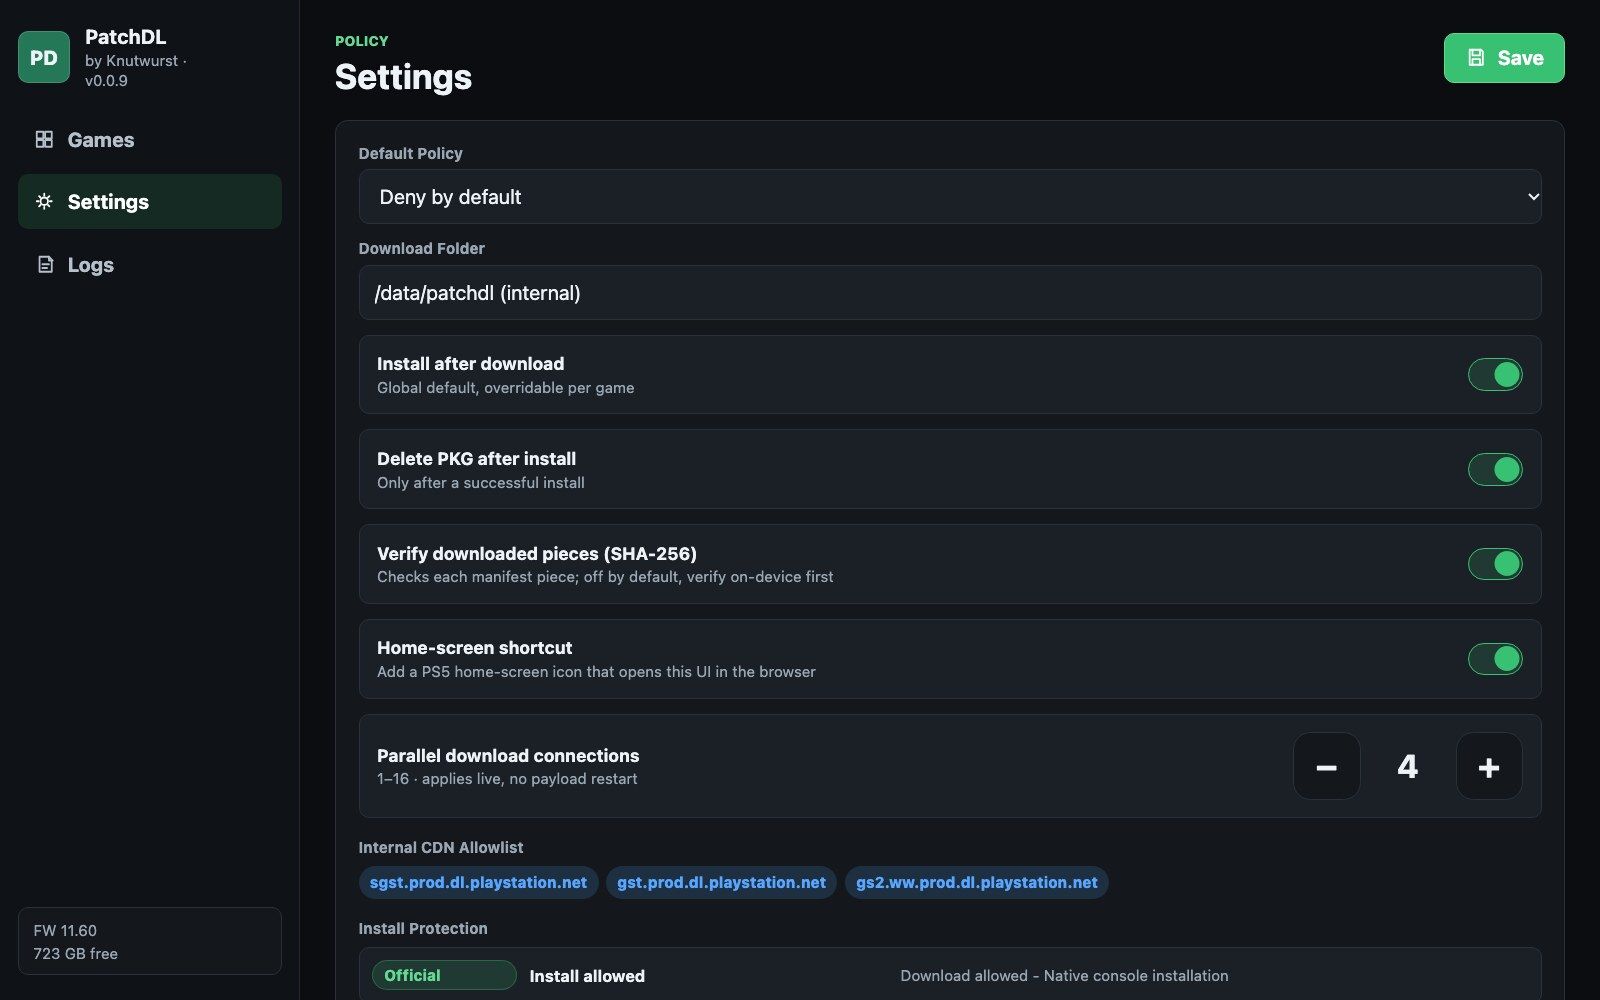
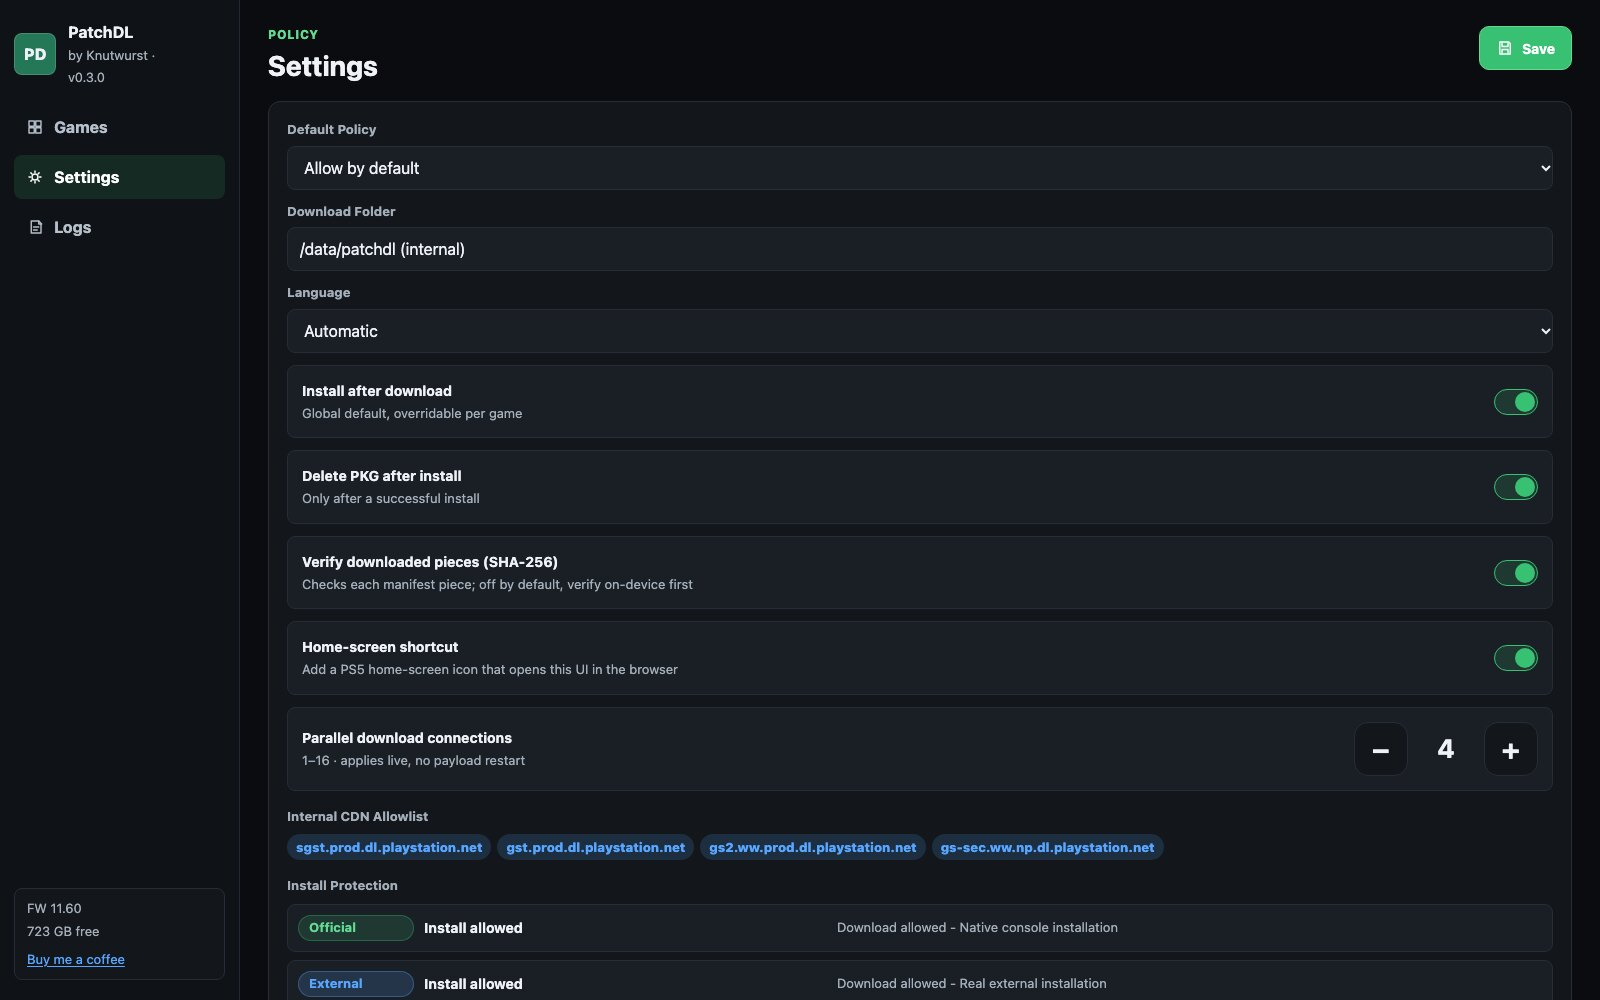
README: screenshots for 0.3.0
New hero, games, library, settings, phone and social-preview images
with the redesigned cards, a PS4 game and the Other versions list.
The old-firmware screenshot gives way to one of Other versions, and the
highlights mention picking a version, the ten languages and downloads
that get through blocked DNS and dropped connections.

diff --git a/README.md b/README.md
@@ -1,7 +1,7 @@
 <h1 align="center">PatchDL</h1>
 
 <p align="center">
-  <img src="docs/images/hero.jpg" alt="PatchDL in a desktop browser and on a phone, fetching a patch that runs on an older firmware" width="900">
+  <img src="docs/images/hero.jpg" alt="PatchDL in a desktop browser, and the Other versions list on a phone" width="900">
 </p>
 
 <p align="center">
@@ -39,12 +39,14 @@
 - **Your whole library at a glance.** Every installed game shows up with its icon, its version and the newest update Sony offers for it, sorted A to Z. Install or remove a game and the list follows within seconds, no restart needed.
 - **Update all.** One click queues every game that has an update. PatchDL works through the queue and installs each update as soon as it lands.
 - **Fast downloads.** Up to 16 parallel connections per update. Change the number in Settings while a download runs.
-- **Survives reboots.** Pause, resume, or lose power: PatchDL saves progress after every finished piece and continues where it stopped.
+- **Gets through.** PatchDL finds Sony's servers even when DNS is blocked, retries a stalled connection on another server, and continues every piece where it stopped, also after a pause, a power cut or a restart.
+- **Pick any version.** **Other versions** lists every patch a game ever had, with size and the firmware it needs. Pick one that runs on your console and PatchDL fetches exactly that one.
 - **Made for your firmware.** You only see updates your console can run. When Sony's newest patch needs a newer firmware, PatchDL finds the newest one that still runs on yours and helps you get it: scan a QR code with your phone, copy one link, and the PS5 does the rest.
 - **Knows where each game came from.** PatchDL checks every game's package and recognizes disc and PlayStation Store installs. It only ever patches games Sony signed.
 - **Checked against Sony's checksums.** Turn on verification and PatchDL compares every piece with the SHA-256 Sony publishes for it.
 - **Reuses what's already there.** If the update package is already on the console, PatchDL checks it against Sony's checksums and downloads only the pieces that don't match.
 - **Keeps your storage tidy.** After an install, PatchDL confirms the game runs the new version and then deletes the package. Prefer to keep packages? Turn that off, and Settings lists every package on the console with its size and version, ready to delete.
+- **In your language.** English, German, French, Spanish, Italian, Brazilian Portuguese, Japanese, Simplified Chinese, Korean and Russian. PatchDL follows your browser, or pick one in Settings.
 - **A tile on your home screen.** One toggle adds PatchDL to the PS5 home screen. Tap it and the UI opens in the console's browser.
 - **Live progress.** A banner at the top shows the current game, speed, time left and where you are in the queue. During an install, the game's card shows how much of the update the console has read.
 
@@ -56,7 +58,7 @@
     <td align="center" width="50%"><img src="docs/images/library.jpg" width="420" alt="Full library with game icons, sorted by name"><br><sub><b>Library</b> &nbsp;·&nbsp; icons, versions and firmware needs, A to Z</sub></td>
   </tr>
   <tr>
-    <td align="center" width="50%"><img src="docs/images/oldfw.jpg" width="420" alt="QR code on the TV and the step-by-step guide on a phone"><br><sub><b>Older firmware</b> &nbsp;·&nbsp; scan on the TV, paste one link on your phone</sub></td>
+    <td align="center" width="50%"><img src="docs/images/versions.jpg" width="420" alt="Other versions list in the browser and the step-by-step guide on a phone"><br><sub><b>Other versions</b> &nbsp;·&nbsp; pick a version, paste one link on your phone</sub></td>
     <td align="center" width="50%"><img src="docs/images/settings.jpg" width="420" alt="Settings view"><br><sub><b>Settings</b> &nbsp;·&nbsp; changes apply right away, no restart</sub></td>
   </tr>
   <tr>
